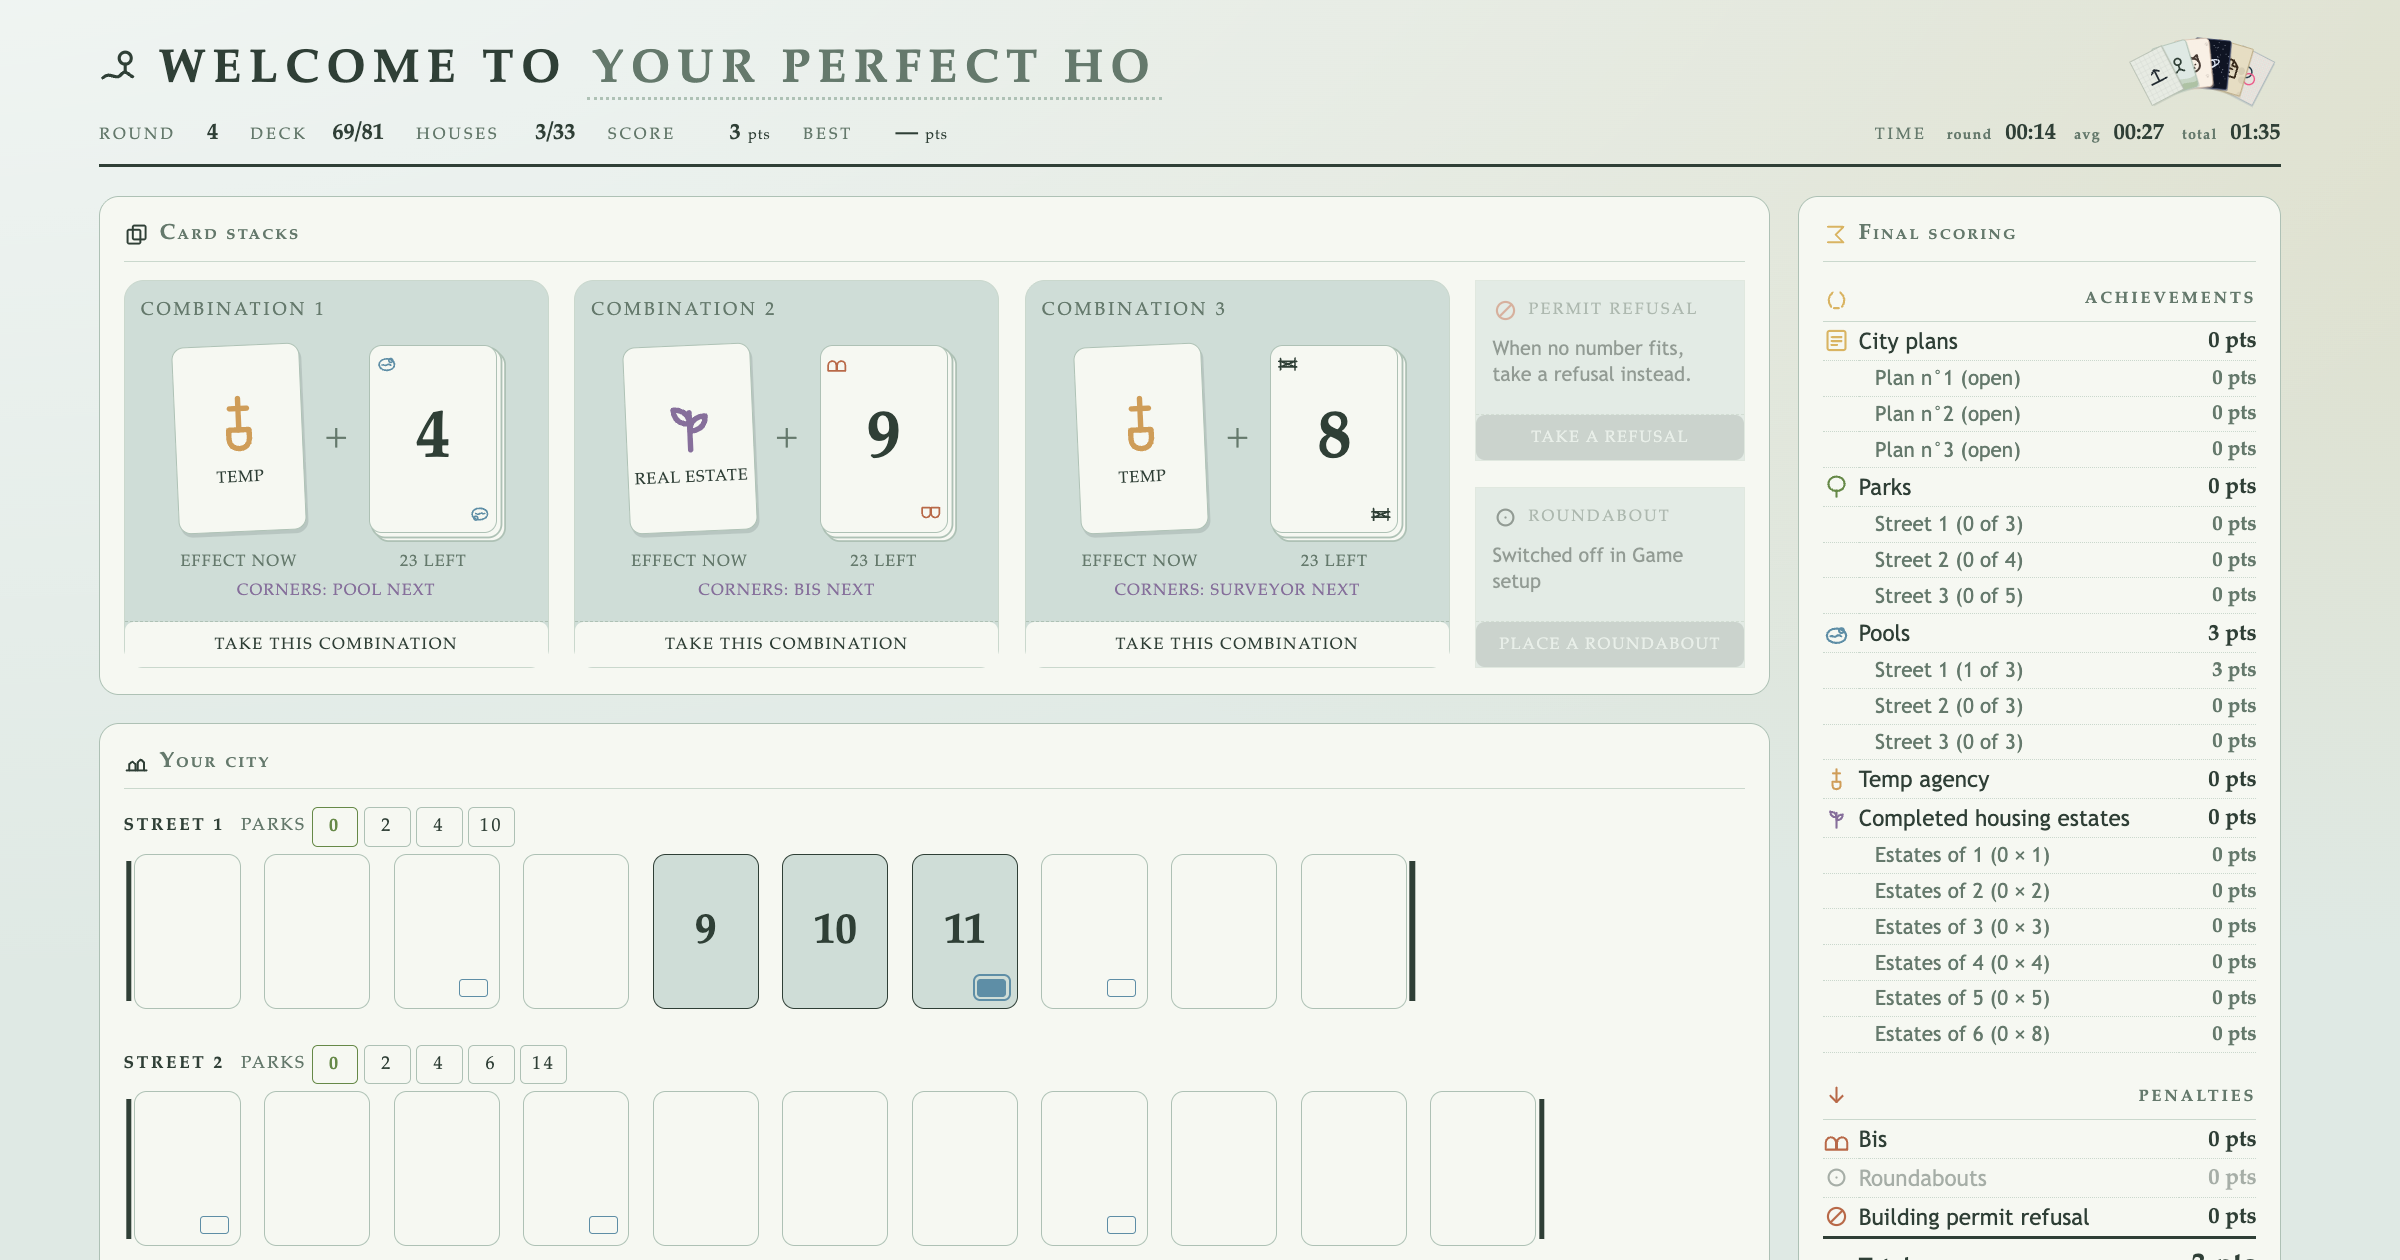
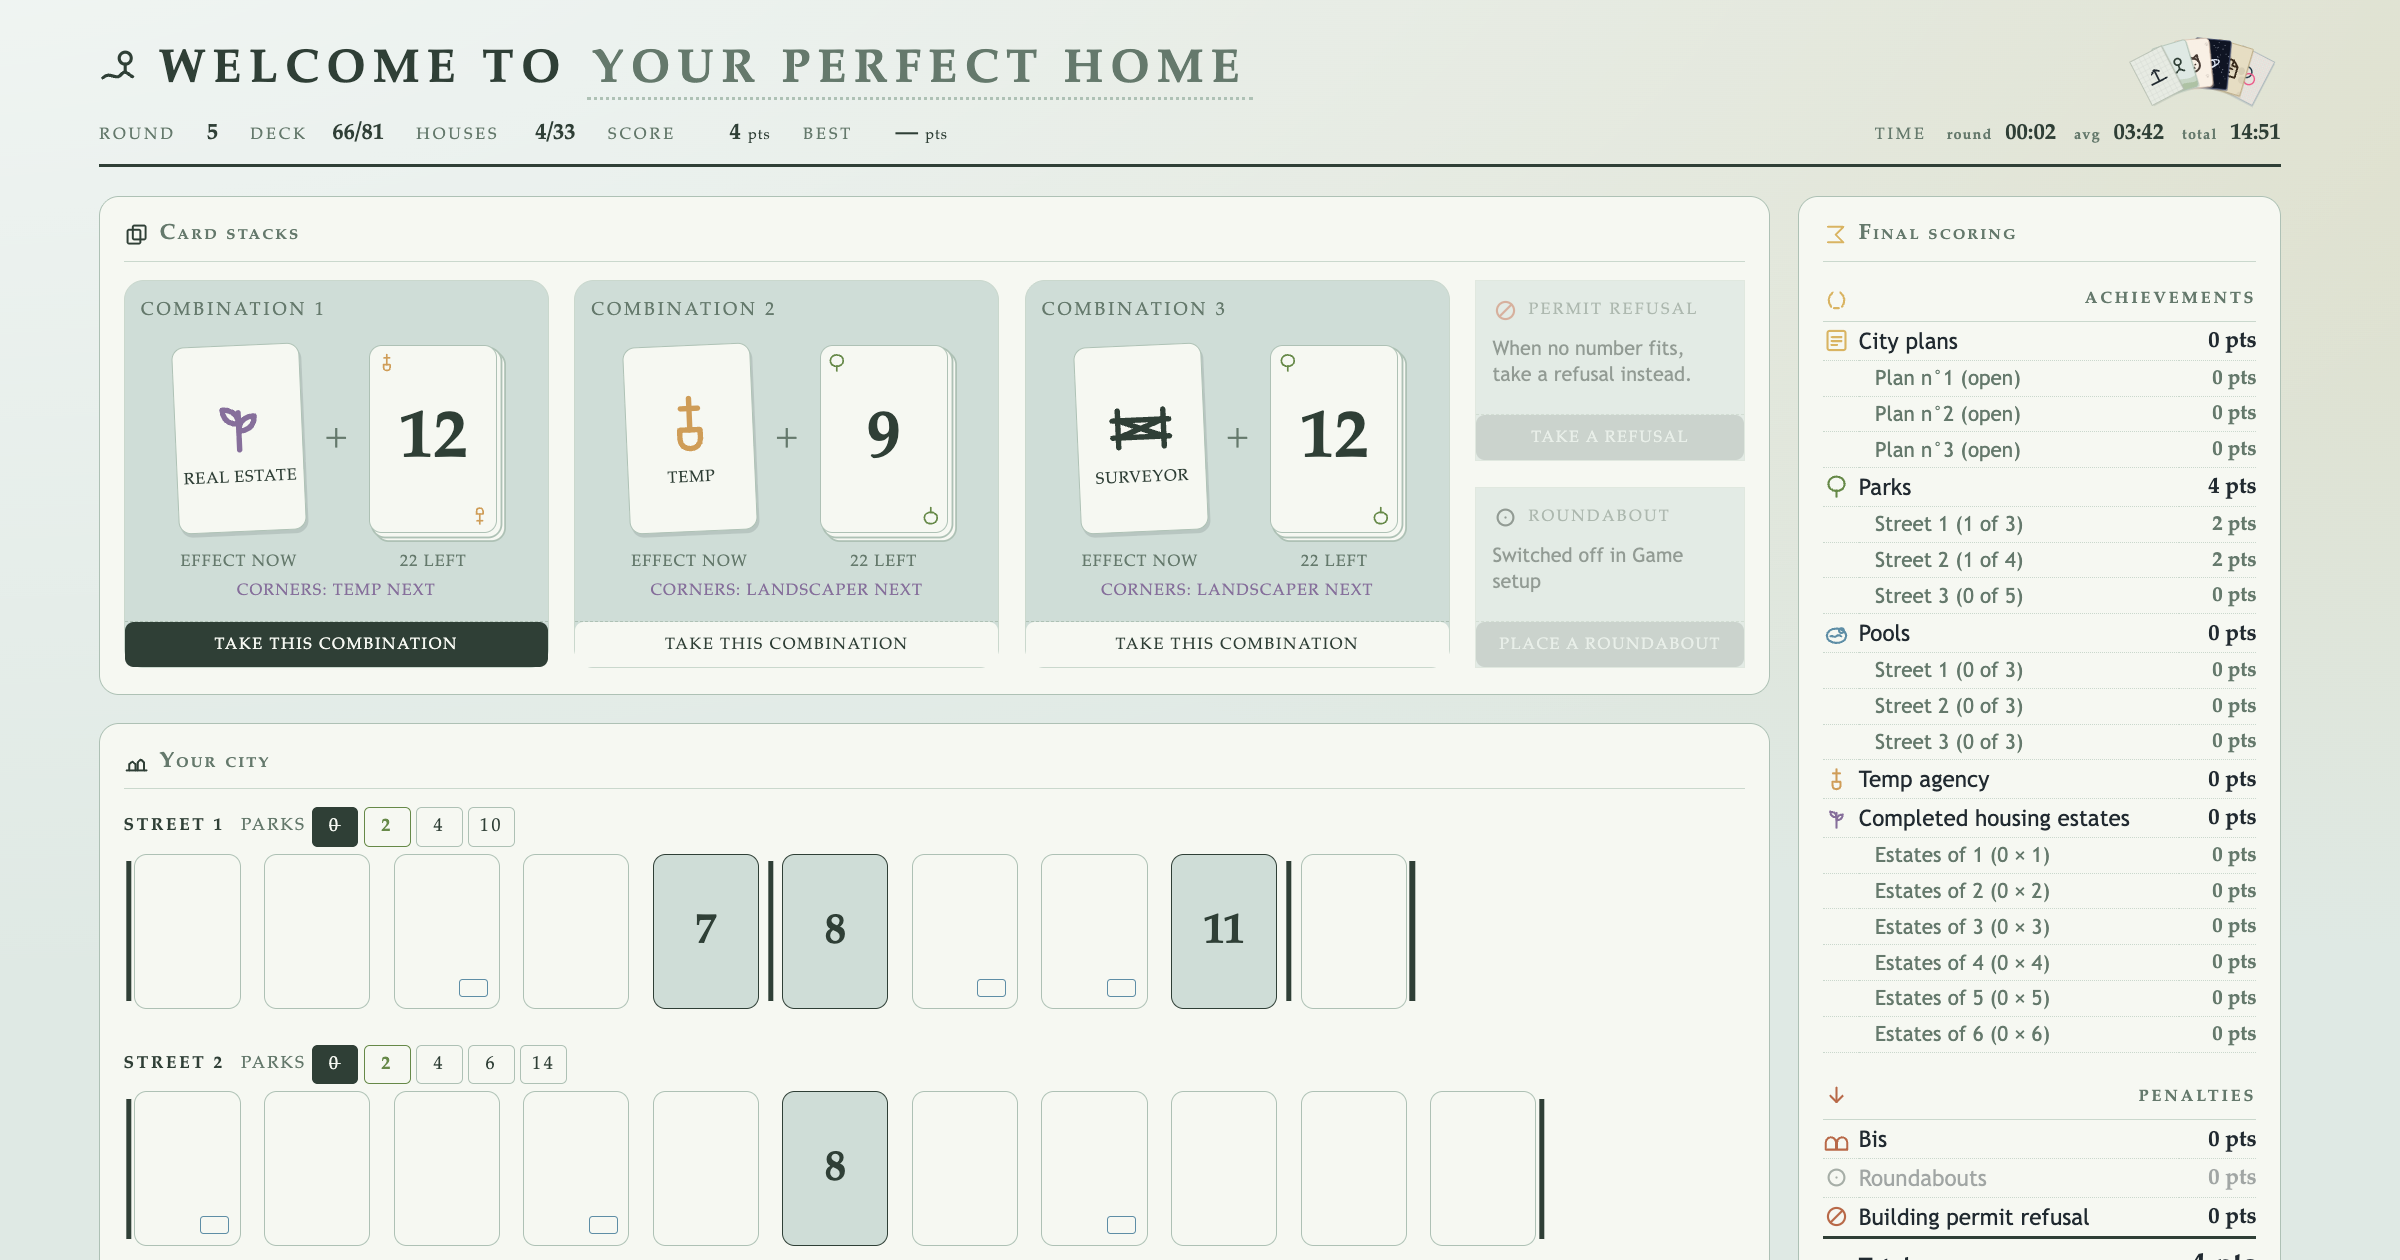
v21

diff --git a/index.html b/index.html
@@ -4,7 +4,7 @@
 <!-- Without these a scraper finds no summary and falls back to the first text in
      the document, which is the stylesheet. WhatsApp showed CSS as the preview.
      The image has to be a raster: none of them will render an SVG. -->
-<meta name="description" content="Practise Welcome To Your Perfect Home on your own.
+<meta name="description" content="Welcome To Your Perfect Home.
 Three streets, three city plans, the standard turn or the official solo variant,
 with the odds worked out for you. No account, nothing saved but your best score.">
 <link rel="canonical" href="https://welcome-to.sunken.dev/">
